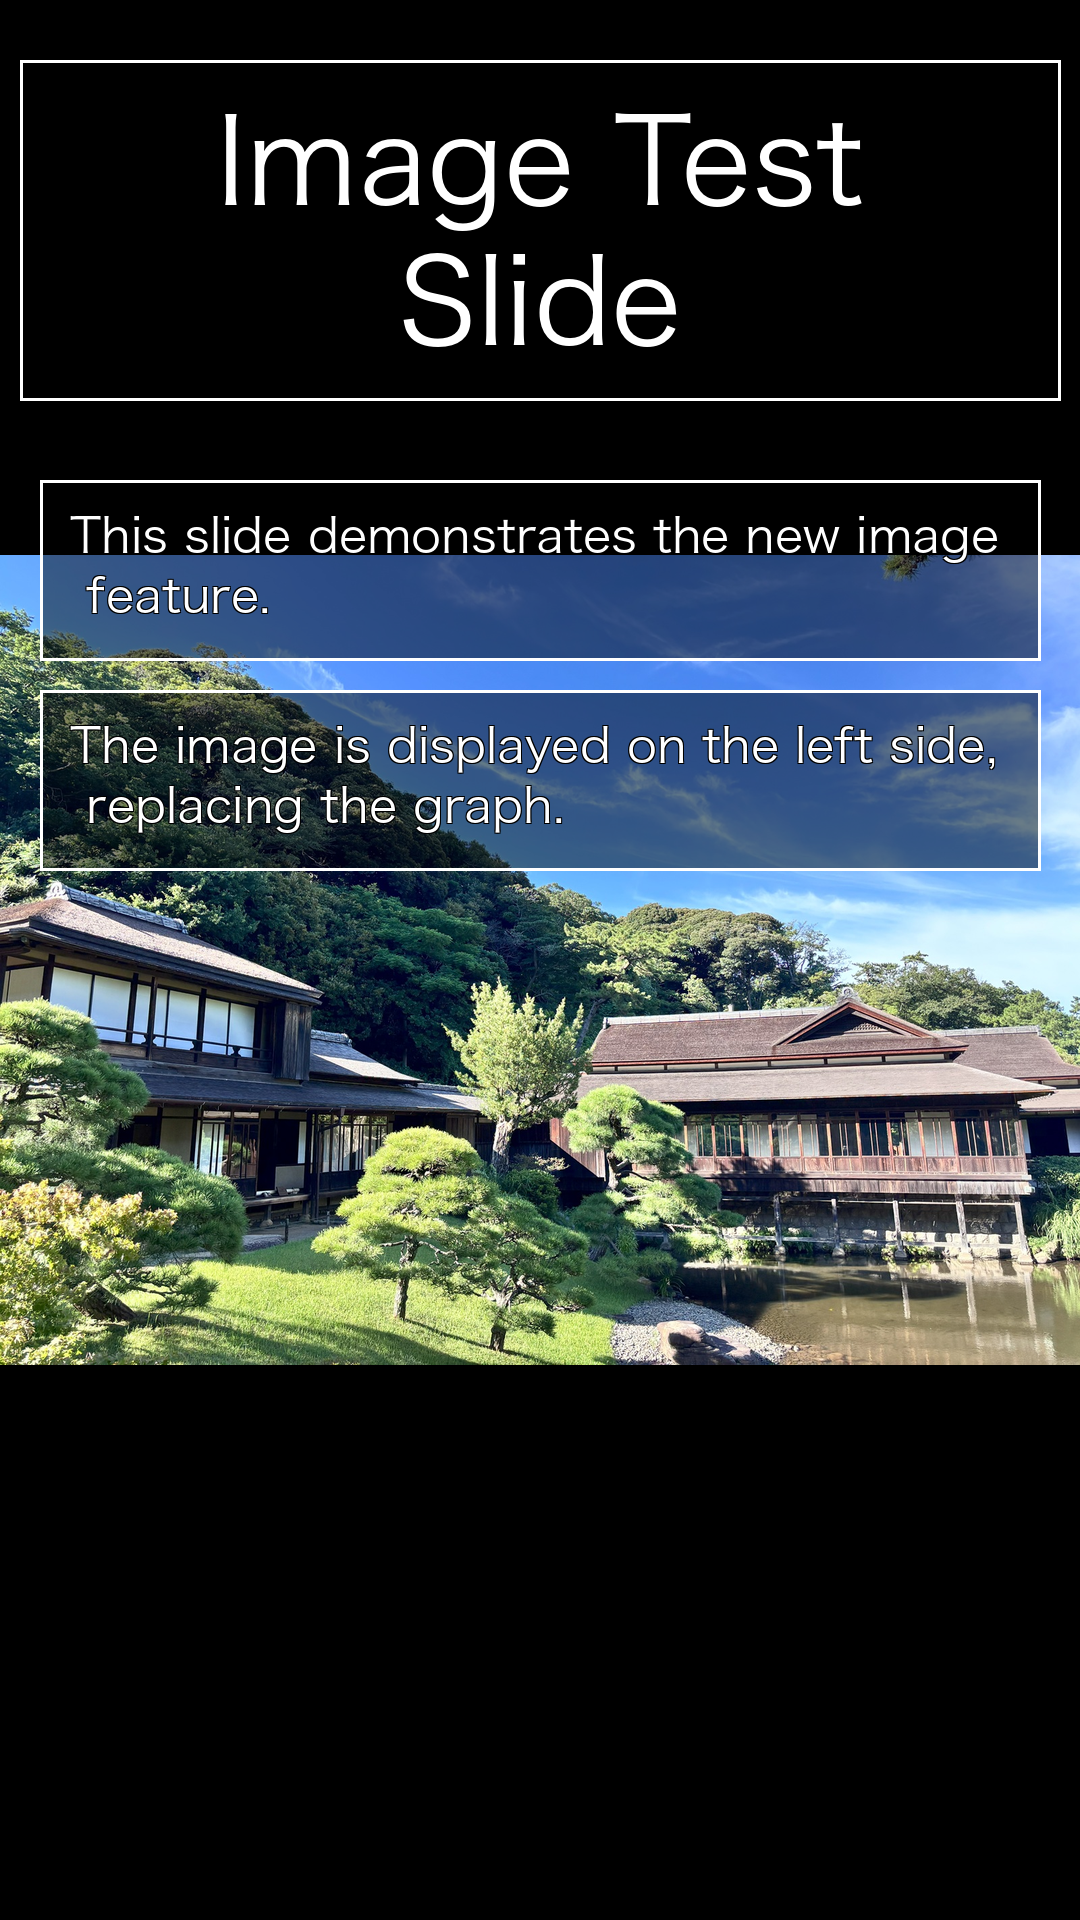
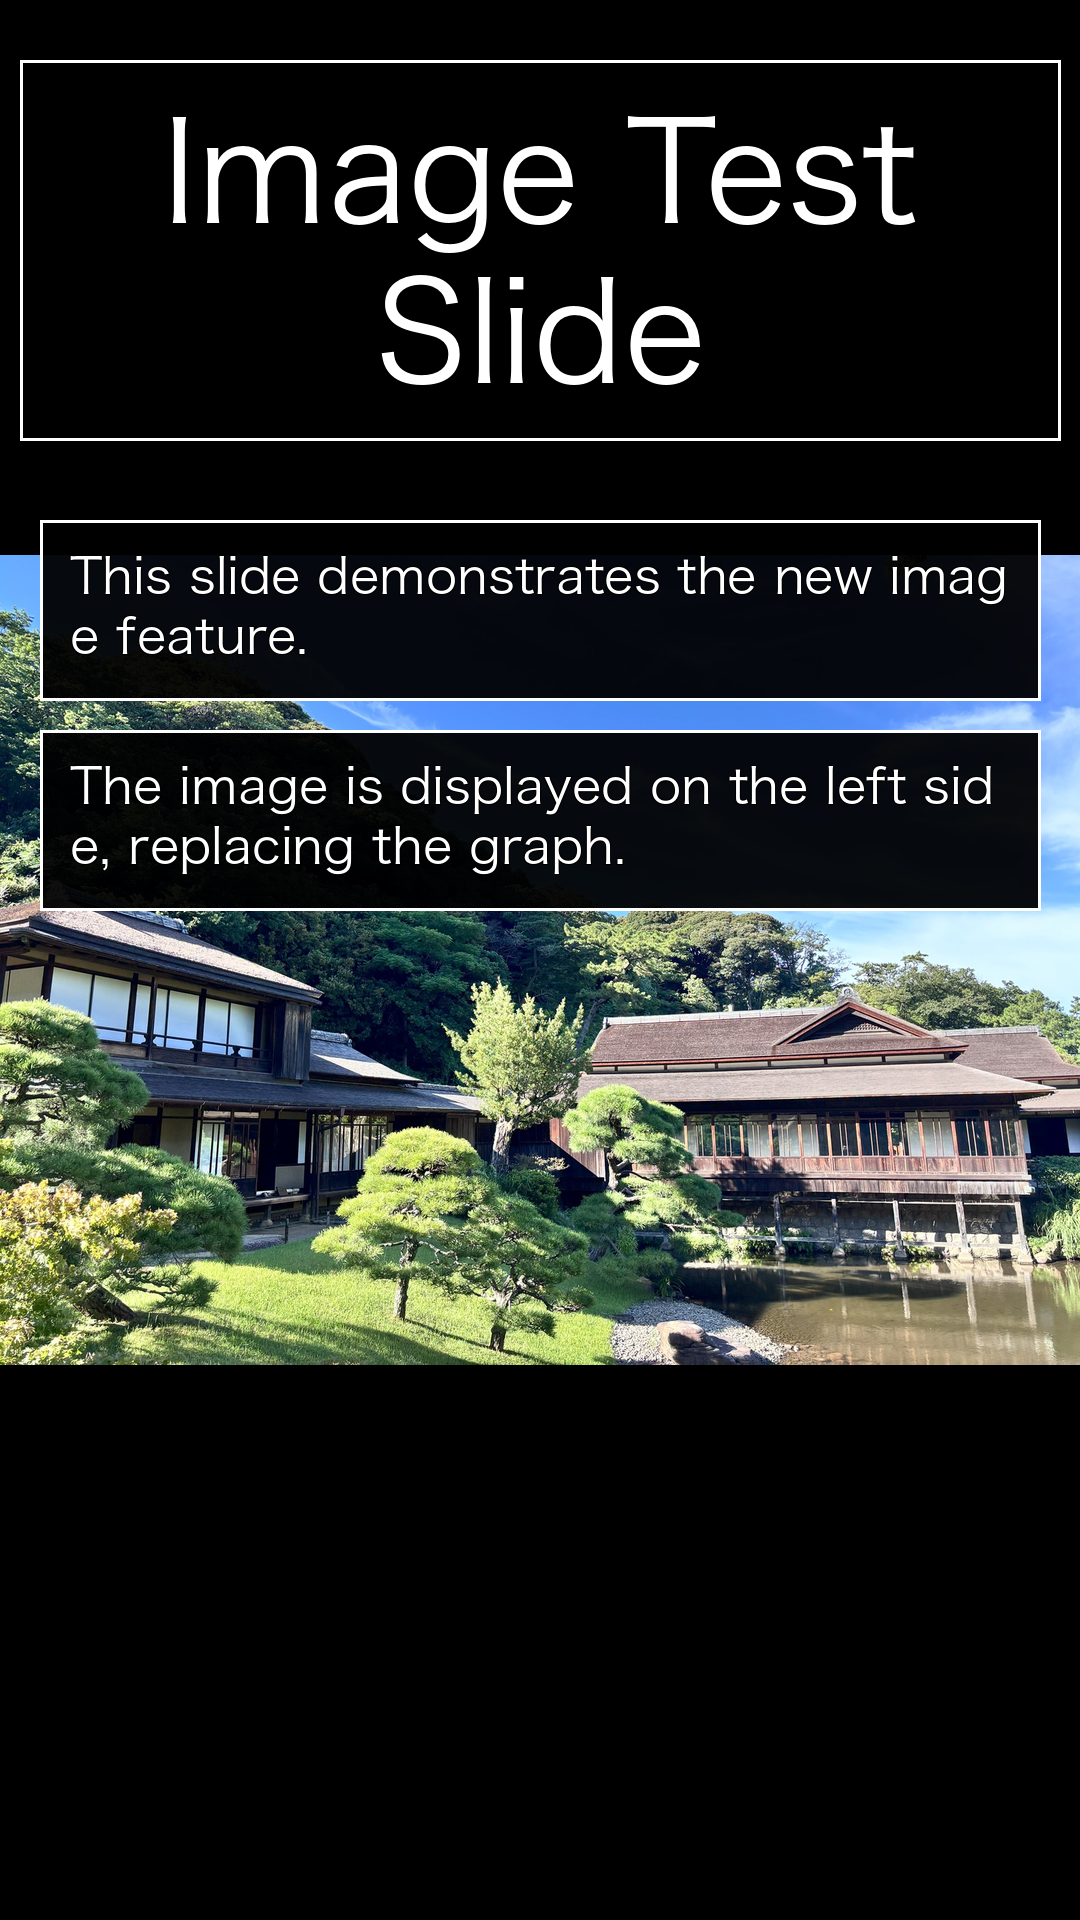
Improve readability and visual impact of vertical layouts for mobile format
- Enhanced font sizes for titles and text to improve legibility on mobile devices
- Switched to darker, high-contrast glassmorphism backgrounds for better text visibility
- Improved overlay backgrounds and border opacity for stronger separation from images or gradients
- Refined vertical chart card backgrounds to be lighter and more readable regardless of the underlying image
- Adjusted line spacing and title overlay layout for optimal appearance with large fonts
- Updated example images to reflect improved design choices

Changed region(s): [[0.0306, 0.25, 0.9778, 0.5], [0.1528, 0.0625, 0.8556, 0.2188]]

diff --git a/src/layout.py b/src/layout.py
@@ -230,8 +230,8 @@ class VerticalLayoutEngine:
             "C:\\Windows\\Fonts\\msgothic.ttc"
         ]
         
-        self.title_font = self._load_font(120)  # Extra large for vertical
-        self.text_font = self._load_font(48)    # Larger for mobile readability
+        self.title_font = self._load_font(140)  # Enhanced size for better readability
+        self.text_font = self._load_font(50)    # Increased size for mobile readability
         self.table_font = self._load_font(36)
         
     def _load_font(self, size: int) -> ImageFont.FreeTypeFont:
@@ -245,17 +245,17 @@ class VerticalLayoutEngine:
         return ImageFont.load_default()
     
     def draw_glassmorphism_rect(self, draw: ImageDraw.Draw, x1: int, y1: int, x2: int, y2: int, has_image_bg: bool = False):
-        """Draw glassmorphism effect rectangle"""
+        """Draw enhanced glassmorphism effect rectangle with better readability"""
         if has_image_bg:
-            # More opaque background for image backgrounds
-            draw.rectangle([x1, y1, x2, y2], fill=(0, 0, 0, 120))
+            # Much more opaque background for image backgrounds - enhanced readability
+            draw.rectangle([x1, y1, x2, y2], fill=(0, 0, 0, 240))
             # Stronger border
             draw.rectangle([x1, y1, x2, y2], outline=(255, 255, 255, 255), width=3)
         else:
-            # Semi-transparent white background - more opaque
-            draw.rectangle([x1, y1, x2, y2], fill=(255, 255, 255, 80))
-            # Border - stronger
-            draw.rectangle([x1, y1, x2, y2], outline=(255, 255, 255, 200), width=3)
+            # Dark background for gradient backgrounds - maximum contrast with white text
+            draw.rectangle([x1, y1, x2, y2], fill=(0, 0, 0, 200))
+            # Stronger border
+            draw.rectangle([x1, y1, x2, y2], outline=(255, 255, 255, 255), width=3)
     
     def draw_title_overlay(self, img: Image.Image, title: str, has_image_bg: bool = False):
         """Draw title with overlay effect"""
@@ -306,9 +306,9 @@ class VerticalLayoutEngine:
             if current_line:
                 lines.append(current_line)
         
-        # Calculate total height
-        line_height = 140
-        total_height = len(lines) * line_height - 20  # Reduce spacing between lines
+        # Calculate total height with improved spacing
+        line_height = 160
+        total_height = len(lines) * line_height - 20  # Enhanced line spacing for readability
         
         # Center position
         y = self.current_y
@@ -352,17 +352,15 @@ class VerticalLayoutEngine:
         card_width = self.width - 2 * self.card_margin
         card_height = 400
         
-        # Draw card background
+        # Draw chart-specific background (light for readability)
         card_x = self.card_margin
         card_y = self.current_y
-        self.draw_glassmorphism_rect(
-            draw,
-            card_x,
-            card_y,
-            card_x + card_width,
-            card_y + card_height,
-            has_image_bg
-        )
+        # Light background for charts regardless of image background
+        draw.rectangle([card_x, card_y, card_x + card_width, card_y + card_height], 
+                      fill=(255, 255, 255, 240))
+        # Border
+        draw.rectangle([card_x, card_y, card_x + card_width, card_y + card_height], 
+                      outline=(255, 255, 255, 255), width=3)
         
         # Resize graph to fit card
         graph_width = card_width - 40

diff --git a/src/image_generator.py b/src/image_generator.py
@@ -93,16 +93,16 @@ def generate_gradient_background(width: int, height: int, vibrant: bool = False)
     draw = ImageDraw.Draw(img)
     
     if vibrant:
-        # Modern SNS-style gradients for vertical format
+        # Modern SNS-style gradients for vertical format - darker colors only
         palettes = [
             # S Tier - Professional SNS gradients
             [(255, 45, 85), (255, 100, 45)],      # Instagram-style pink to orange  
             [(30, 150, 255), (0, 200, 200)],      # Twitter-style blue to cyan
             [(150, 50, 255), (50, 200, 255)],     # TikTok-style purple to light blue
-            # A Tier - Business-friendly elegant gradients
-            [(255, 150, 0), (255, 200, 50)],      # Warm orange to yellow
-            [(50, 200, 150), (100, 255, 200)],    # Fresh green to mint
-            [(240, 100, 100), (100, 240, 240)],   # Gentle coral to aqua
+            # Enhanced A Tier - Darker business gradients
+            [(220, 120, 0), (180, 80, 20)],       # Rich orange to dark orange
+            [(40, 160, 120), (20, 120, 80)],      # Deep green to forest green
+            [(200, 60, 60), (120, 40, 120)],      # Rich coral to deep purple
         ]
         colors = random.choice(palettes)
         color1, color2 = colors
